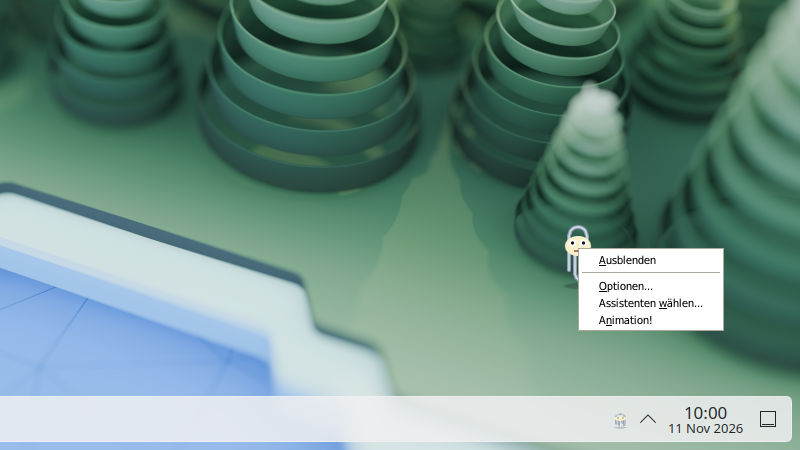
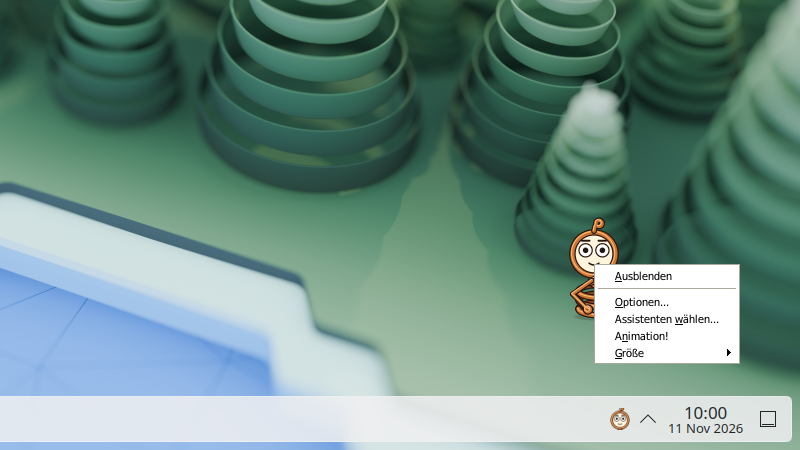
Screenshots with Wire; CHANGELOG and roadmap for 0.4

Changed region(s): [[0.6875, 0.4667, 0.9375, 0.8089], [0.75, 0.9022, 0.7812, 0.9644]]

diff --git a/CHANGELOG.md b/CHANGELOG.md
@@ -7,6 +7,31 @@ D-Bus API (`org.bentwire.Agent1`) and the character format (`format = 1`) are fr
 
 ## [Unreleased]
 
+### Added
+
+- Wire, bentwire's own character (CC0-1.0): a piece of bent wire with a face, drawn by
+  code from one vector rig. Two renderings: `wire` (smooth, 1x and 2x, the default) and
+  `wire-retro` (11 colours, hard edges). It has the Agent states and animation set, the
+  Office animation names, return animations and exit branches, and mouths for speech
+  output.
+- D-Bus method `org.bentwire.Agent1.Reload`, which does what SIGHUP does. After an add-on
+  change the CLI calls it instead of signalling a looked-up process id.
+
+### Changed
+
+- Wire replaces `bentwire-placeholder` in `builtin`. With only `builtin` installed, the
+  default character is `wire`.
+- `addons install`: archives and downloads are limited to 256 MiB packed, 1 GiB unpacked
+  and 10000 entries, checked while unpacking.
+- espeak-ng is loaded and initialised at daemon start, before any other thread, because
+  it sets the process locale. After installing espeak-ng, restart the daemon.
+- Docs: the SAPI 4 reading of voice gender and pitch is marked as inferred.
+
+### Fixed
+
+- Quit, SIGTERM and the end of the session bus stop speech and sounds before the daemon
+  waits for its bridges.
+
 ## [0.3.0] - 2026-11-27
 
 ### Added

diff --git a/docs/roadmap.md b/docs/roadmap.md
@@ -51,7 +51,14 @@ track the current state.
   `bentwire addons list/install/enable/disable`. Add-ons are characters, balloon themes
   and bridges. Enabled bridges run as their own processes and stop with the daemon.
 
-## 0.4 "Polish and reach"
+## 0.4 "Wire"
+
+- **Wire**, the first own character (see below), replaces the placeholder in `builtin`.
+- Small fixes from 0.3: espeak-ng set up before other threads, speech stopped before the
+  wait for bridges at shutdown, size limits for add-on archives, `Reload` over D-Bus
+  instead of a signal by process id.
+
+## 0.5 "Polish and reach"
 
 - The Office balloon theme proven from the original: the order of the button states and
   the balloon size constants.
